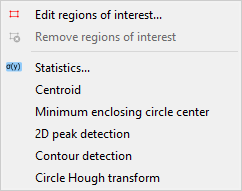
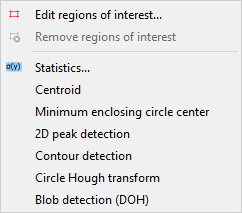
Added blob detection (Determinant of Hessian)

diff --git a/codraft/core/gui/processor/image.py b/codraft/core/gui/processor/image.py
@@ -16,7 +16,6 @@ import scipy.ndimage as spi
 import scipy.signal as sps
 from guidata.dataset.dataitems import BoolItem, ChoiceItem, FloatItem, IntItem
 from guidata.dataset.datatypes import DataSet, DataSetGroup, ValueProp
-from guiqwt.histogram import hist_range_threshold
 from guiqwt.widgets.resizedialog import ResizeDialog
 from numpy import ma
 from qtpy import QtWidgets as QW
@@ -31,6 +30,7 @@ from codraft.core.computation.image import (
     distance_matrix,
     flatfield,
     get_2d_peaks_coords,
+    get_blob_doh,
     get_centroid_fourier,
     get_contour_shapes,
     get_enclosing_circle,
@@ -370,6 +370,61 @@ class HoughCircleParam(DataSet):
     min_radius = IntItem(_("Radius<sub>min</sub>"), min=0, nonzero=True)
     max_radius = IntItem(_("Radius<sub>max</sub>"), min=0, nonzero=True)
     min_distance = IntItem(_("Minimal distance"), min=0)
+
+
+class BlobDOHParam(DataSet):
+    """Blob detection using Determinant of Hessian method"""
+
+    min_sigma = FloatItem(
+        "σ<sub>min</sub>",
+        default=1.0,
+        min=0,
+        nonzero=True,
+        help=_(
+            "The minimum standard deviation for Gaussian Kernel used to compute "
+            "Hessian matrix. Keep this low to detect smaller blobs."
+        ),
+    )
+    max_sigma = FloatItem(
+        "σ<sub>max</sub>",
+        default=30.0,
+        min=0,
+        nonzero=True,
+        help=_(
+            "The maximum standard deviation for Gaussian Kernel used to compute "
+            "Hessian matrix. Keep this high to detect larger blobs."
+        ),
+    )
+    threshold_rel = FloatItem(
+        _("Relative threshold"),
+        default=0.2,
+        min=0.0,
+        max=1.0,
+        help=_(
+            "Minimum intensity of peaks, calculated as "
+            "max(doh_space) * threshold_rel, where doh_space refers to the stack "
+            "of Determinant-of-Hessian (DoH) images computed internally."
+        ),
+    )
+    overlap = FloatItem(
+        _("Overlap"),
+        default=0.5,
+        min=0.0,
+        max=1.0,
+        help=_(
+            "If the area of two blobs overlaps by a fraction greater "
+            "than threshold, the smaller blob is eliminated."
+        ),
+    )
+    log_scale = BoolItem(
+        _("Log scale"),
+        default=False,
+        help=_(
+            "If set intermediate values of standard deviations are interpolated "
+            "using a logarithmic scale to the base 10. "
+            "If not, linear interpolation is used."
+        ),
+    )
 
 
 class ImageProcessor(BaseProcessor):
@@ -1071,6 +1126,29 @@ class ImageProcessor(BaseProcessor):
         if edit:
             param = HoughCircleParam()
         self.compute_10(_("Circles"), contour_shape, param, edit=edit)
+
+    @qt_try_except()
+    def compute_blob_doh(self, param: BlobDOHParam = None) -> None:
+        """Compute blob detection using Determinant of Hessian method"""
+
+        def contour_shape(image: ImageParam, p: BlobDOHParam):
+            """Compute contour shape fit"""
+            res = self.__apply_origin_size_roi(
+                image,
+                get_blob_doh,
+                p.min_sigma,
+                p.max_sigma,
+                p.overlap,
+                p.log_scale,
+            )
+            if res is not None:
+                return image.add_resultshape("Blobs", ShapeTypes.CIRCLE, res)
+            return None
+
+        edit = param is None
+        if edit:
+            param = BlobDOHParam()
+        self.compute_10(_("Blobs"), contour_shape, param, edit=edit)
 
     def _get_stat_funcs(self):
         """Return statistics functions list"""

diff --git a/codraft/core/computation/image.py b/codraft/core/computation/image.py
@@ -14,7 +14,7 @@ import scipy.ndimage as spi
 import scipy.ndimage.filters as spf
 import scipy.spatial as spt
 from numpy import ma
-from skimage import measure, transform
+from skimage import feature, measure, transform
 
 
 def scale_data_to_min_max(data: np.ndarray, zmin, zmax):
@@ -228,4 +228,27 @@ def get_hough_circle_peaks(
     _accums, cx, cy, radii = transform.hough_circle_peaks(
         hough_res, hough_radii, min_xdistance=min_distance, min_ydistance=min_distance
     )
+    return np.vstack([cx - radii, cy, cx + radii, cy]).T
+
+
+def get_blob_doh(
+    data,
+    min_sigma=1,
+    max_sigma=30,
+    overlap=0.5,
+    log_scale=False,
+    threshold_rel=0.2,
+):
+    """Finds blobs in the given grayscale image"""
+    blobs_doh = feature.blob_doh(
+        data,
+        min_sigma=min_sigma,
+        max_sigma=max_sigma,
+        num_sigma=int(max_sigma - min_sigma + 1),
+        threshold=None,
+        threshold_rel=threshold_rel,
+        overlap=overlap,
+        log_scale=log_scale,
+    )
+    cy, cx, radii = blobs_doh.T
     return np.vstack([cx - radii, cy, cx + radii, cy]).T

diff --git a/codraft/core/gui/actionhandler.py b/codraft/core/gui/actionhandler.py
@@ -538,8 +538,20 @@ class ImageActionHandler(BaseActionHandler):
         hough_circle_act = self.cra(
             _("Circle Hough transform"),
             proc.compute_hough_circle_peaks,
-            tip=_("Detect circular shapes using circle Hough transform."),
+            tip=_("Detect circular shapes using circle Hough transform"),
         )
-        actions = [cent_act, encl_act, peak_act, contour_act, hough_circle_act]
+        blob_doh_act = self.cra(
+            _("Blob detection (DOH)"),
+            proc.compute_blob_doh,
+            tip=_("Detect blobs using Determinant of Hessian (DOH) method"),
+        )
+        actions = [
+            cent_act,
+            encl_act,
+            peak_act,
+            contour_act,
+            hough_circle_act,
+            blob_doh_act,
+        ]
         self.actlist_1more += actions
         return base_actions + actions

diff --git a/doc/features/image/menu/computing.rst b/doc/features/image/menu/computing.rst
@@ -60,3 +60,7 @@ Contour detection
 Circle Hough transform
     Detect circular shapes using circle Hough transform
     (implementation based on `skimage.transform.hough_circle_peaks <https://scikit-image.org/docs/stable/api/skimage.transform.html?highlight=hough#skimage.transform.hough_circle_peaks>`_).
+
+Blob detection (DOH)
+    Detect blobs using Determinant of Hessian (DOH) method
+    (implementation based on `skimage.feature.blob_doh <https://scikit-image.org/docs/stable/api/skimage.feature.html#blob-doh>`_).

diff --git a/CHANGELOG.md b/CHANGELOG.md
@@ -25,6 +25,7 @@ New features:
   * Added image intensity levels rescaling
   * Added histogram equalization
   * Added adaptative histogram equalization
+  * Added blob detection using Determinant of Hessian method
 * Added support for XYZ image files
 
 Bug fixes:
